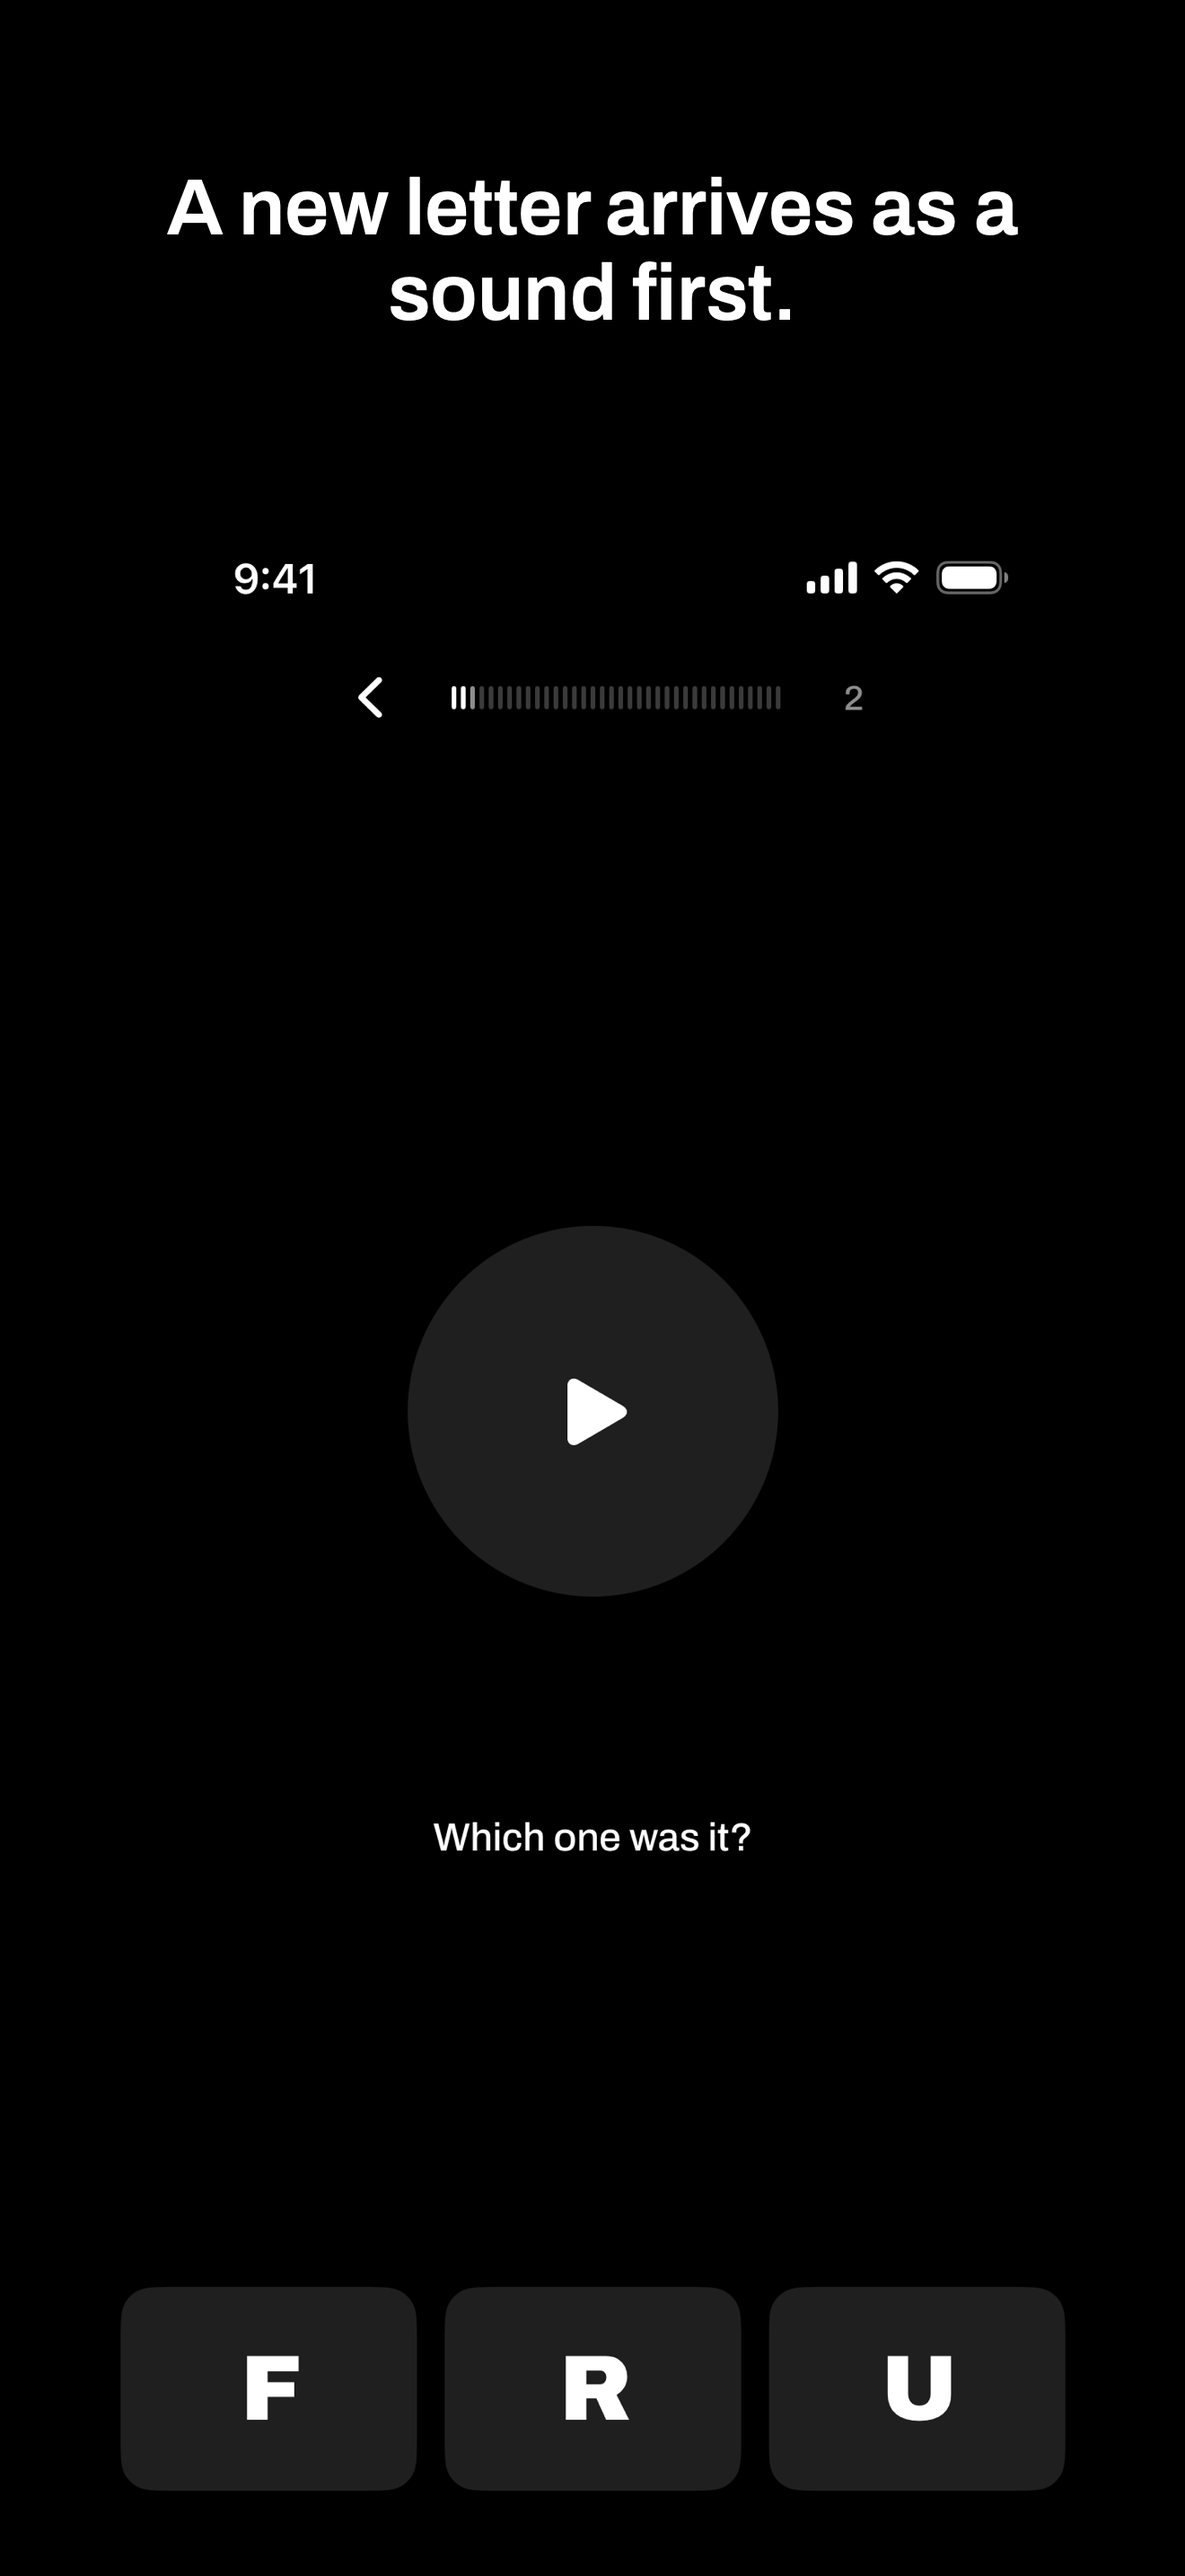
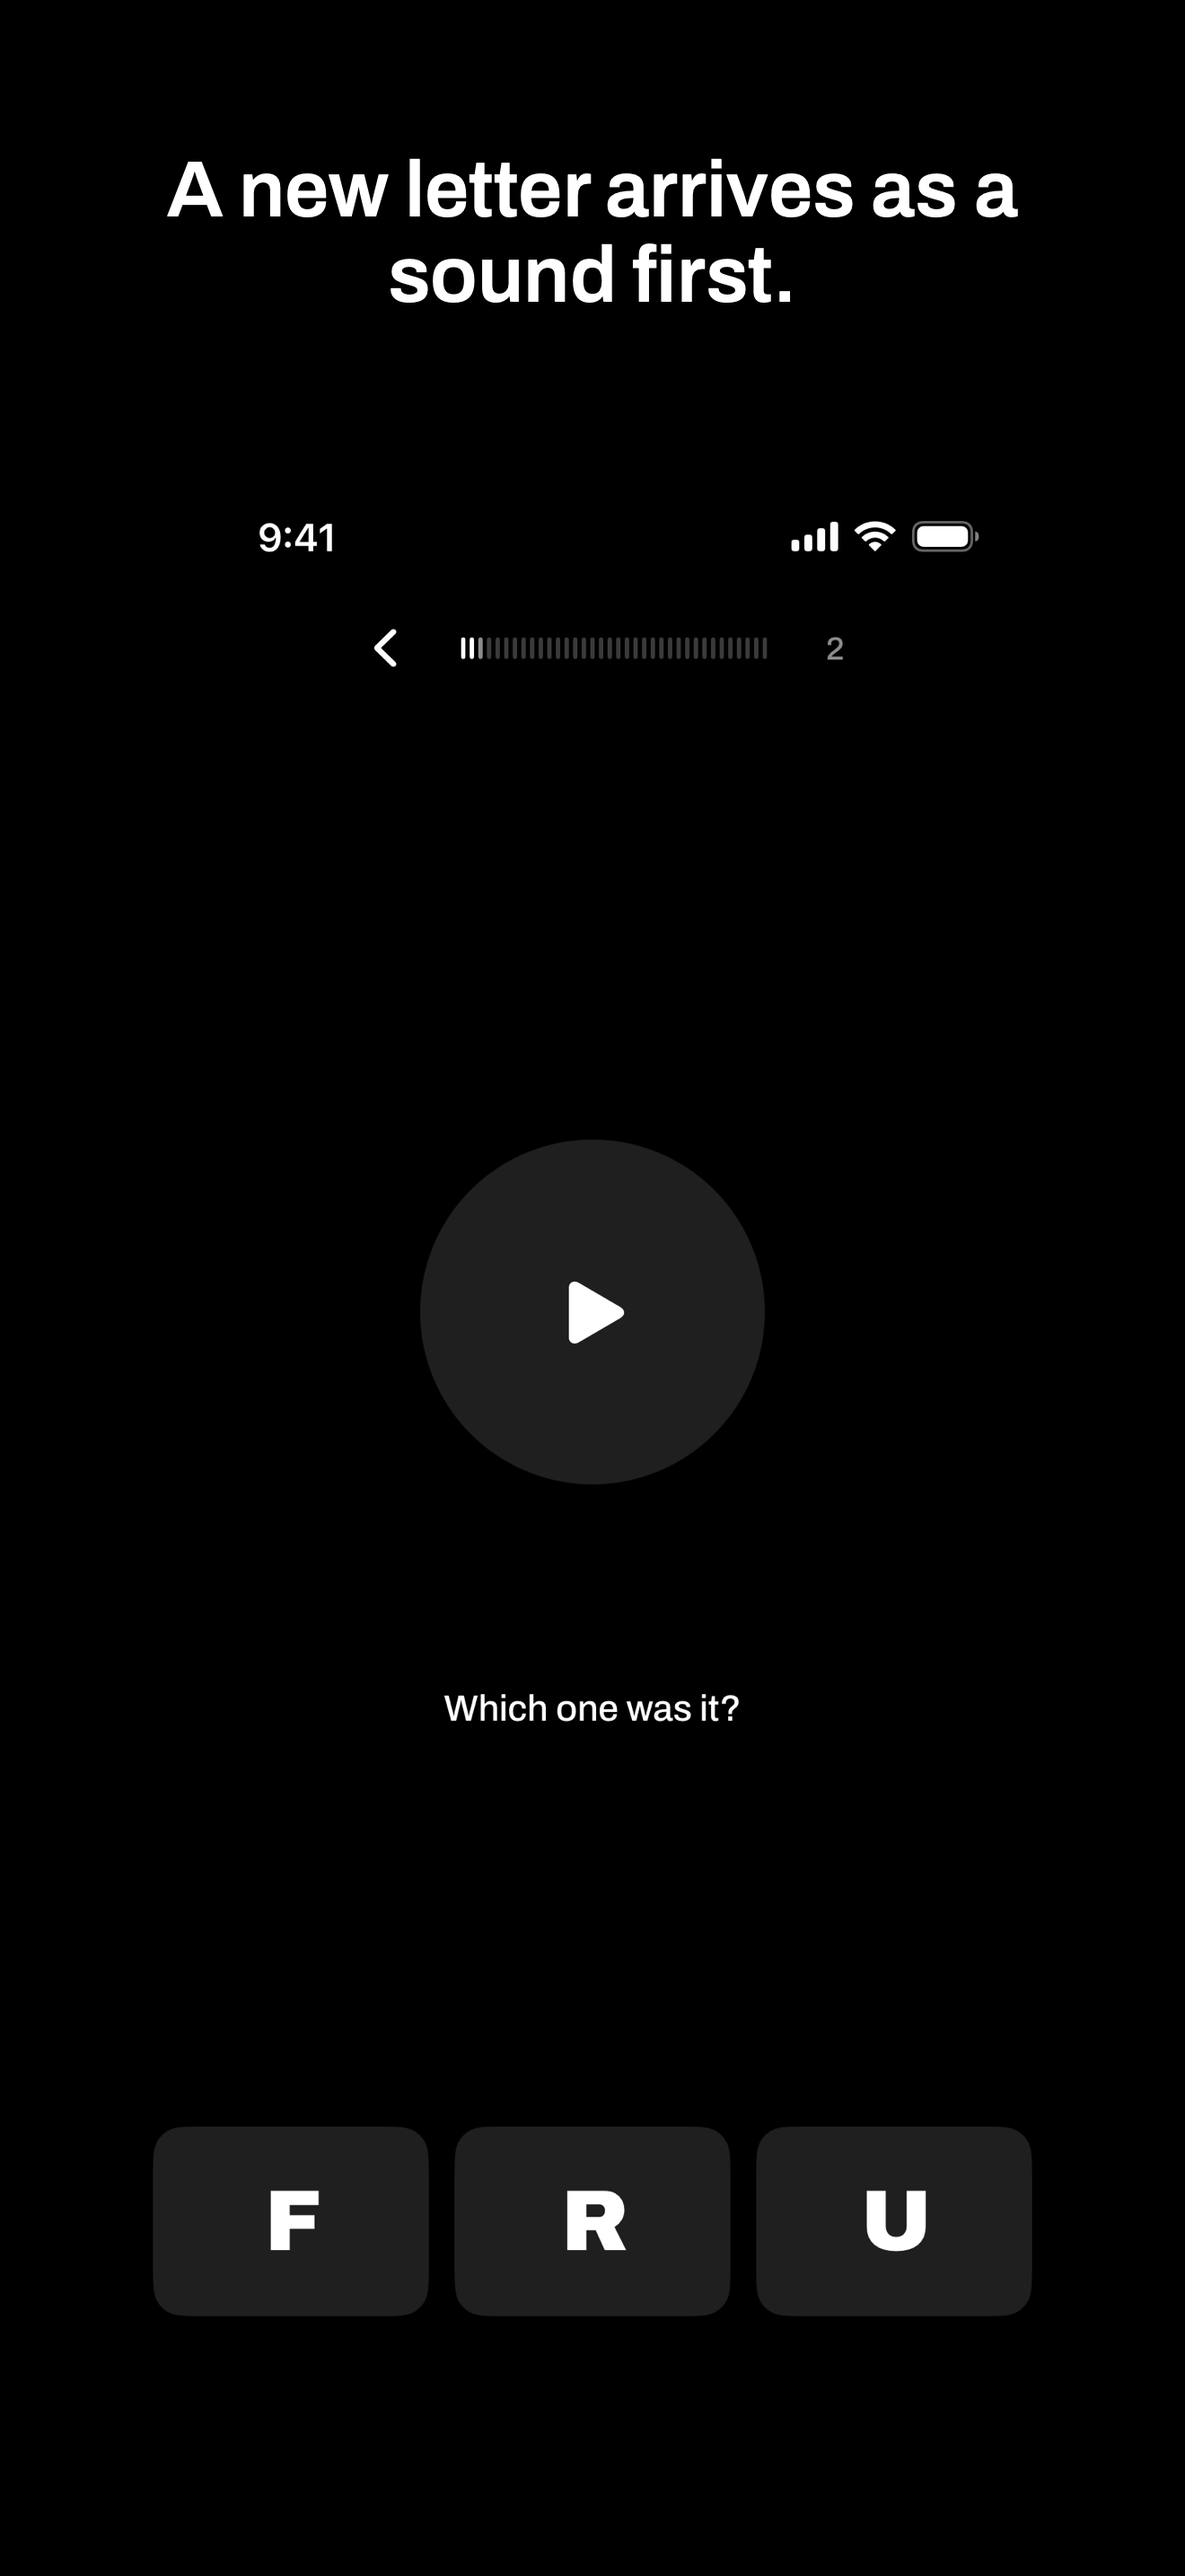
📸 Fit the whole screen on the store canvas and flatten the PNGs
The plan's geometry (top at 560, 86 % width) ran 158 px past the bottom
of the canvas, which cut the paddle out of the keying screenshot, the
one thing its caption points at. The capture now sits at 520 from the
top at 80 % width, so every screen fits with room to spare. Both
drawing contexts drop the alpha channel: App Store Connect wants
flattened RGB screenshots, and the pixels were already opaque. The
wrapper comments the one short flag simctl has no long form for.

diff --git a/scripts/compose-screenshots.swift b/scripts/compose-screenshots.swift
@@ -21,8 +21,8 @@ let shots: [(file: String, slug: String, caption: String)] = [
 
 let canvasWidth = 1320
 let canvasHeight = 2868
-let captureTop: CGFloat = 560        // points from the top of the canvas
-let captureWidthFraction: CGFloat = 0.86
+let captureTop: CGFloat = 520        // points from the top of the canvas
+let captureWidthFraction: CGFloat = 0.80   // 1056 px wide, 2294 px tall: the whole screen fits above the bottom edge
 let cornerRadius: CGFloat = 110
 let captionSize: CGFloat = 88
 let captionMargin: CGFloat = 96
@@ -90,15 +90,15 @@ for shot in shots.enumerated() {
     guard let capture = loadImage(input) else { fail("missing capture \(input.path)", code: 1) }
     guard let context = CGContext(data: nil, width: canvasWidth, height: canvasHeight, bitsPerComponent: 8,
                                   bytesPerRow: 0, space: colorSpace,
-                                  bitmapInfo: CGImageAlphaInfo.premultipliedLast.rawValue) else {
+                                  bitmapInfo: CGImageAlphaInfo.noneSkipLast.rawValue) else {
         fail("could not create canvas", code: 1)
     }
     let canvas = CGRect(x: 0, y: 0, width: canvasWidth, height: canvasHeight)
     context.setFillColor(CGColor(colorSpace: colorSpace, components: [0, 0, 0, 1])!)
     context.fill(canvas)
 
-    // Capture: 86 % of the width, centred, its top `captureTop` below the canvas top. CoreGraphics
-    // measures from the bottom, so the rect may start below zero and bleed off the bottom edge.
+    // Capture: 80 % of the width, centred, its top `captureTop` below the canvas top, so the whole
+    // screen (the paddle included) stays inside the canvas. CoreGraphics measures from the bottom.
     let width = (CGFloat(canvasWidth) * captureWidthFraction).rounded()
     let height = (width * CGFloat(capture.height) / CGFloat(capture.width)).rounded()
     let rect = CGRect(x: ((CGFloat(canvasWidth) - width) / 2).rounded(),
@@ -129,7 +129,7 @@ for shot in shots.enumerated() {
         let webHeight = Int((CGFloat(canvasHeight) * scale).rounded())
         guard let small = CGContext(data: nil, width: webWidth, height: webHeight, bitsPerComponent: 8,
                                     bytesPerRow: 0, space: colorSpace,
-                                    bitmapInfo: CGImageAlphaInfo.premultipliedLast.rawValue) else {
+                                    bitmapInfo: CGImageAlphaInfo.noneSkipLast.rawValue) else {
             fail("could not create web canvas", code: 1)
         }
         small.interpolationQuality = .high
